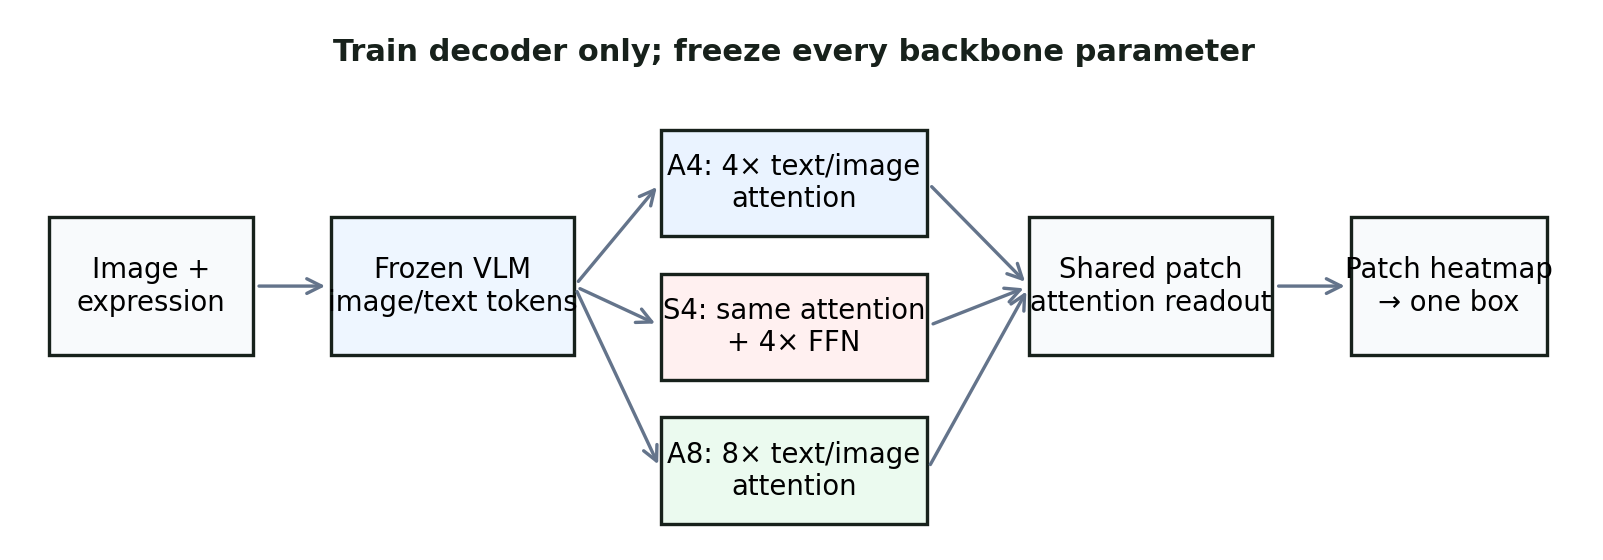
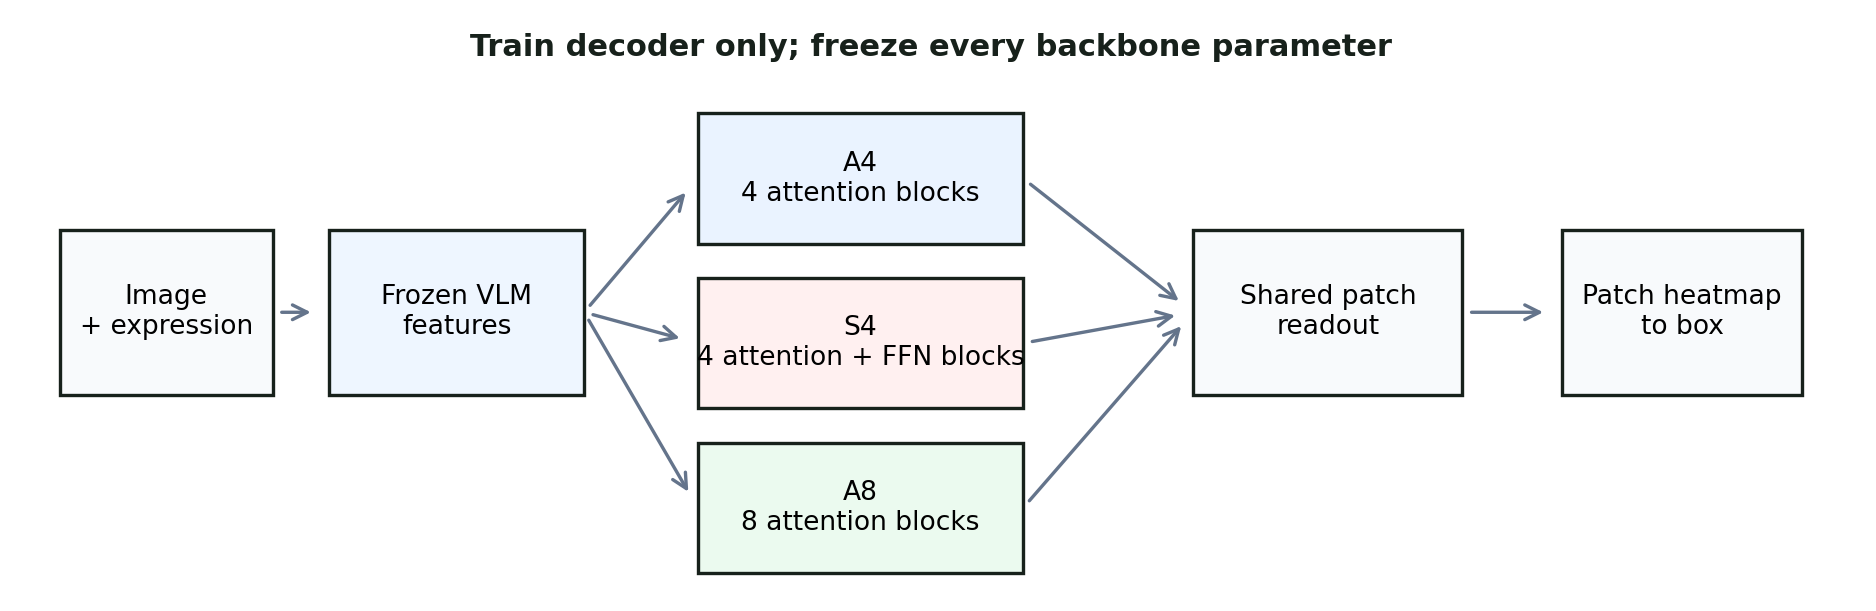
Loosen paper architecture diagram

Changed region(s): [[0.0312, 0.1821, 0.9669, 0.8804], [0.1871, 0.0607, 0.7798, 0.1214], [0.3743, 0.9107, 0.5926, 0.9411]]

diff --git a/scripts/generate_paper_assets.py b/scripts/generate_paper_assets.py
@@ -105,24 +105,24 @@ def write_table(data: dict) -> None:
 
 
 def method_overview() -> None:
-    fig, axis = plt.subplots(figsize=(9.2, 3.1)); axis.set_axis_off(); axis.set(xlim=(0, 10), ylim=(0, 4.2))
+    fig, axis = plt.subplots(figsize=(10.8, 3.4)); axis.set_axis_off(); axis.set(xlim=(0, 13), ylim=(0, 4.2))
     def box(x: float, y: float, width: float, height: float, label: str, color: str = "#f8fafc") -> None:
         axis.add_patch(Rectangle((x, y), width, height, facecolor=color, edgecolor=COLORS["ink"], linewidth=1.1))
-        axis.text(x + width / 2, y + height / 2, label, ha="center", va="center", fontsize=9, wrap=True)
+        axis.text(x + width / 2, y + height / 2, label, ha="center", va="center", fontsize=8.7, wrap=True)
     def arrow(x1: float, y1: float, x2: float, y2: float) -> None:
-        axis.add_patch(FancyArrowPatch((x1, y1), (x2, y2), arrowstyle="->", mutation_scale=12, linewidth=1.1, color=COLORS["muted"]))
-    box(.2, 1.5, 1.3, 1.1, "Image +\nexpression")
-    box(2.0, 1.5, 1.55, 1.1, "Frozen VLM\nimage/text tokens", "#eef6ff")
-    box(4.1, 2.45, 1.7, .85, "A4: 4× text/image\nattention", "#eaf3ff")
-    box(4.1, 1.30, 1.7, .85, "S4: same attention\n+ 4× FFN", "#fff0f0")
-    box(4.1, .15, 1.7, .85, "A8: 8× text/image\nattention", "#ebfaef")
-    box(6.45, 1.5, 1.55, 1.1, "Shared patch\nattention readout", "#f8fafc")
-    box(8.5, 1.5, 1.25, 1.1, "Patch heatmap\n→ one box")
-    arrow(1.5, 2.05, 2.0, 2.05)
-    for y in (2.88, 1.73, .58): arrow(3.55, 2.05, 4.1, y)
-    for y in (2.88, 1.73, .58): arrow(5.8, y, 6.45, 2.05)
-    arrow(8.0, 2.05, 8.5, 2.05)
-    axis.text(4.95, 3.85, "Train decoder only; freeze every backbone parameter", ha="center", fontsize=10, weight="bold", color=COLORS["ink"])
+        axis.add_patch(FancyArrowPatch((x1, y1), (x2, y2), arrowstyle="->", mutation_scale=12, linewidth=1.1, color=COLORS["muted"], shrinkA=3, shrinkB=6))
+    box(.3, 1.45, 1.5, 1.2, "Image\n+ expression")
+    box(2.2, 1.45, 1.8, 1.2, "Frozen VLM\nfeatures", "#eef6ff")
+    box(4.8, 2.55, 2.3, .95, "A4\n4 attention blocks", "#eaf3ff")
+    box(4.8, 1.35, 2.3, .95, "S4\n4 attention + FFN blocks", "#fff0f0")
+    box(4.8, .15, 2.3, .95, "A8\n8 attention blocks", "#ebfaef")
+    box(8.3, 1.45, 1.9, 1.2, "Shared patch\nreadout", "#f8fafc")
+    box(10.9, 1.45, 1.7, 1.2, "Patch heatmap\nto box")
+    arrow(1.8, 2.05, 2.2, 2.05)
+    for y in (3.025, 1.825, .625): arrow(4.0, 2.05, 4.8, y)
+    for y in (3.025, 1.825, .625): arrow(7.1, y, 8.3, 2.05)
+    arrow(10.2, 2.05, 10.9, 2.05)
+    axis.text(6.45, 3.92, "Train decoder only; freeze every backbone parameter", ha="center", fontsize=10, weight="bold", color=COLORS["ink"])
     save(fig, "method-overview")
 
 
